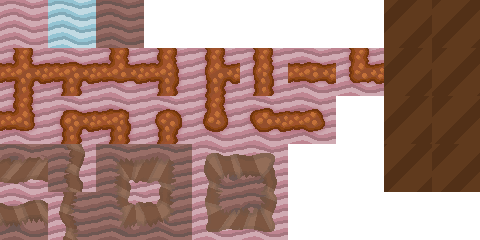
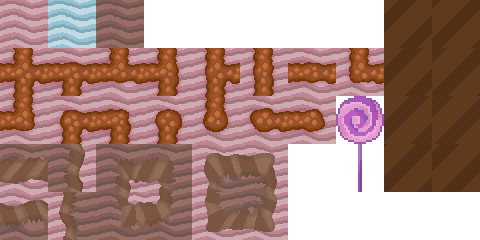
Added tile data

Changed region(s): [[0.6875, 0.3792, 0.8125, 0.7875]]

diff --git a/src/terrain/tile_image_loader.py b/src/terrain/tile_image_loader.py
@@ -50,6 +50,7 @@ choc_river = (
     (432, 96, 48, 48),
     (432, 144, 48, 48)
 )
+lolipop_tree = (336, 96, 48, 96)
 
 
 tiles = [generic_ground, blue_ground, path_1,
@@ -60,7 +61,8 @@ tiles = [generic_ground, blue_ground, path_1,
          dark_ground, wall_1, wall_2,
          wall_3, wall_4, wall_5, wall_6,
          wall_7, wall_8, wall_9, wall_10,
-         wall_11, wall_12, choc_river]
+         wall_11, wall_12, choc_river,
+         lolipop_tree]
 images = []
 
 sprite_sheet = None

diff --git a/src/terrain/map_generator.py b/src/terrain/map_generator.py
@@ -42,7 +42,8 @@ tile_colors = {15724527: "0000",  # Generic ground
                12566463: "0027",  # Wall 10
                13092807: "0028",  # Wall 11
                13619151: "0029",  # Wall 12
-               3170456: "0030"  # Chocolate River
+               3170456: "0030",  # Chocolate River
+               9973906: "0031"  # Lolipop tree
                }
 
 
